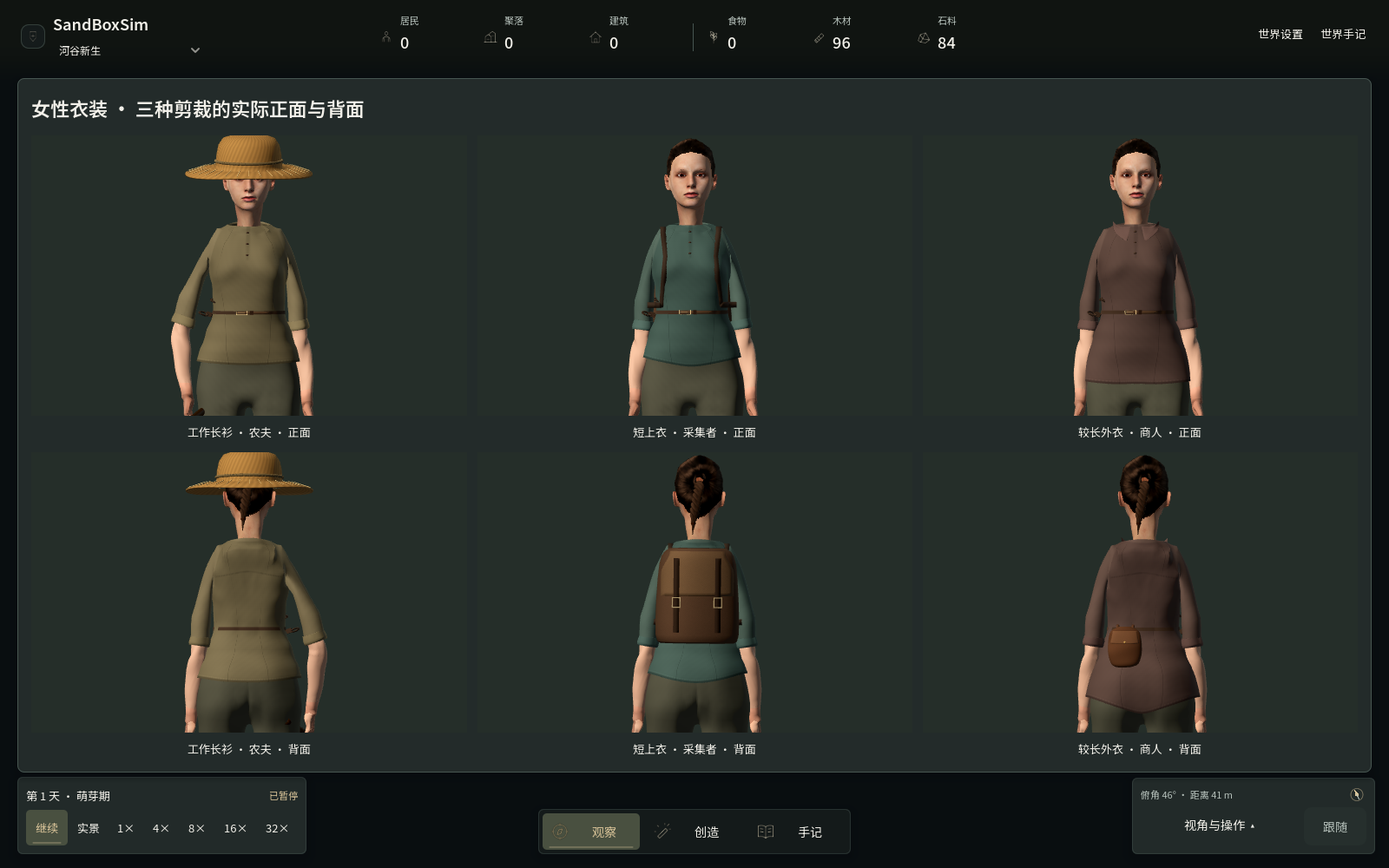
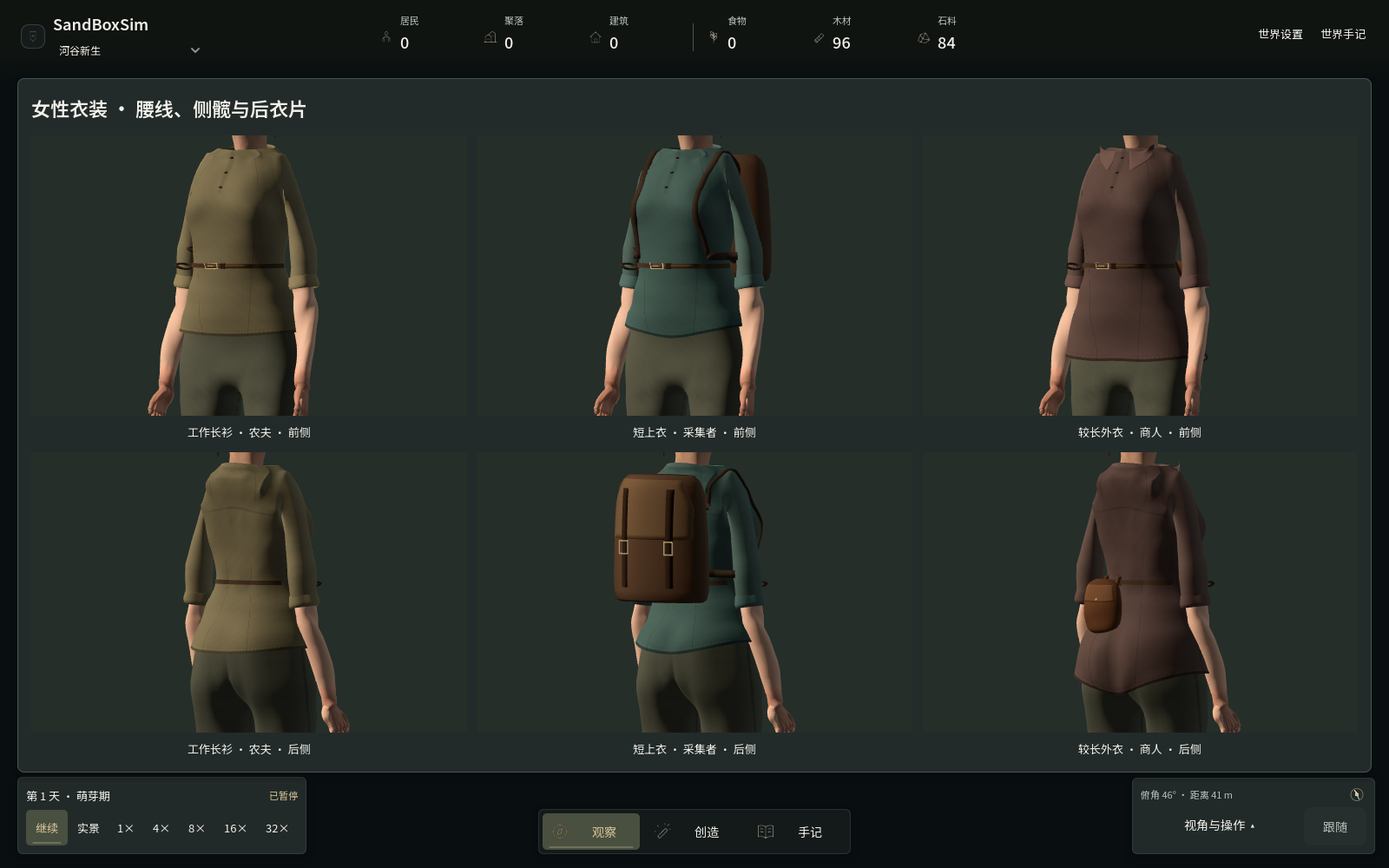
Refit the lower panels and sewn hems of female garments

diff --git a/src/SandBoxSim.Godot/NatureModels.GarmentDrape.cs b/src/SandBoxSim.Godot/NatureModels.GarmentDrape.cs
@@ -1,4 +1,5 @@
 using System;
+using System.Collections.Generic;
 using Godot;
 
 namespace SandBoxSim.Client;
@@ -226,46 +227,97 @@ internal sealed partial class NatureModels
         }
     }
 
+    private float FemaleOuterLayer(float cloth,float height,float angle,float front,out float trousers)
+    {
+        // Continue the waistband's last supported ring into the waist.
+        // Slow the front sample smoothly before it reaches the end.
+        float band=Math.Clamp((height-.924f)/.022f,0,1);
+        float tapered=MathF.Min(height,.924f)+.022f*band*(1-.5f*band);
+        float station=Mathf.Lerp(MathF.Min(height,.935f),tapered,TorsoRamp(.50f,.93f,front));
+        trousers=TrouserLayerRadius(station,angle);
+        return Mathf.Lerp(BlendOuterLayer(cloth,trousers),cloth,TorsoRamp(.928f,.990f,height));
+    }
+
+    private float FairFemalePanelFall(float[] support,float radius,float trousers,float height,float angle,float front)
+    {
+        float hem=FinishedGarmentHem+FemaleHemOffset(MathF.Sin(angle));
+        float active=TorsoRamp(hem-.006f,hem+.033f,height)*(1-TorsoRamp(.914f,.967f,height));
+        if(active==0)return radius;
+        // A hanging panel bridges small changes in the cross-section
+        // underneath it. Use two supports on each side along the grain, with
+        // the real trouser envelope as the lower bound at this station.
+        float Supported(float y)
+        {
+            float cloth=ClothEnvelope(support,MathF.Max(TrunkLow,y),angle)
+                +.003f*front*(1-Mathf.SmoothStep(.80f,.94f,y))+GarmentDrapeDetail(y,angle);
+            return FemaleOuterLayer(cloth,y,angle,front,out _);
+        }
+        float fall=(Supported(height-.032f)+4*Supported(height-.016f)+6*radius
+            +4*Supported(height+.016f)+Supported(height+.032f))/16;
+        float clearance=MathF.Min(radius,trousers-.0015f);
+        return MathF.Max(clearance,radius+Math.Clamp(fall-radius,-.005f,.004f)*active);
+    }
+
     private float FemaleLowerPanelEase(float height,float angle)
     {
         float depth=MathF.Sin(angle),side=MathF.Abs(MathF.Cos(angle));
         float belt=FinishedBeltHeight(angle),hem=FinishedGarmentHem+FemaleHemOffset(depth);
         float t=Math.Clamp((belt-height)/(belt-hem),0,1);
-        float release=TorsoRamp(.08f,.91f,t);
+        float release=TorsoRamp(.13f,.84f,t);
         float outseam=side*side*side;
         float frontQuarter=TorsoRamp(.12f,.48f,-depth)*(1-TorsoRamp(.71f,.97f,-depth));
         float backQuarter=TorsoRamp(.16f,.56f,depth)*(1-TorsoRamp(.83f,1,depth));
         float towardWaist=TorsoRamp(.887f,.923f,height);
-        float waistAllowance=(1-Mathf.SmoothStep(.80f,.935f,height))*(_garmentCut switch
+        float fall=_garmentCut switch
         {
-            0=>.005f*side*side,
-            1=>0,
-            _=>.004f+.010f*side*side
-        });
-        // Release the linen in the direction it hangs from the belt.
-        // Travel cloth keeps more room behind the hip than at centre front.
-        float hemAllowance=release*(_garmentCut switch
-        {
-            0=>.0013f+.0048f*outseam+.0023f*frontQuarter,
-            1=>.0011f+.0024f*outseam+.0015f*frontQuarter,
-            _=>.0028f+.0067f*outseam+.0058f*backQuarter+.0020f*frontQuarter
-        });
-        return Mathf.Lerp(hemAllowance,waistAllowance,towardWaist);
+            0=>.0012f+.0024f*outseam+.0019f*frontQuarter+.0022f*backQuarter,
+            1=>.0014f+.0061f*outseam+.0008f*frontQuarter+.0045f*backQuarter,
+            _=>.0028f+.0056f*outseam+.0013f*frontQuarter+.0085f*backQuarter
+        };
+        // Release the two folds from the back of the belt. Their crests
+        // diverge toward the hip and fade before the turned lower edge.
+        float rear=TorsoRamp(.56f,.88f,depth);
+        float separation=Mathf.Lerp(.14f,.31f,release);
+        float shape=(side-separation)/(_garmentCut==2?.16f:.20f);
+        float fold=(_garmentCut switch {0=>.0022f,1=>.0068f,_=>.015f})
+            *MathF.Exp(-shape*shape)*rear*TorsoRamp(.24f,.68f,t)*(1-TorsoRamp(.86f,1.02f,t));
+        float waistAllowance=(1-TorsoRamp(.80f,.935f,height))*(_garmentCut==2?.004f+.010f*side*side:0);
+        return Mathf.Lerp(release*fall+fold,waistAllowance,towardWaist);
     }
 
-    private Color[] FemaleHemFinishCoordinates(Vector3[] points,Vector2[] pattern)
+    private static Color[] FemaleHemFinishCoordinates(Vector3[] points,int[] triangles,int[] hem)
     {
-        // Keep the finish in bind space so it travels with the skirt. Alpha
-        // stores a metric, while RGB remains available for the distant dye.
+        // Measure the sewn edge on the finished surface, including the
+        // turned facing. A vertical distance made the line drift around a
+        // curved hem or through a fitted lower panel.
+        const float finishWidth=.024f;
+        var neighbours=new HashSet<int>[points.Length];
+        for(int i=0;i<points.Length;i++)neighbours[i]=new();
+        for(int i=0;i<triangles.Length;i+=3)for(int j=0;j<3;j++)
+        {
+            int a=triangles[i+j],b=triangles[i+(j+1)%3];
+            neighbours[a].Add(b);neighbours[b].Add(a);
+        }
+        var distances=new float[points.Length];Array.Fill(distances,finishWidth);
+        var pending=new PriorityQueue<int,float>();
+        for(int col=0;col<SewnPanelColumns;col++)
+        {
+            int rim=hem[col];
+            distances[rim]=0;pending.Enqueue(rim,0);
+        }
+        while(pending.TryDequeue(out int point,out float distance))
+        {
+            if(distance>distances[point])continue;
+            foreach(int next in neighbours[point])
+            {
+                float candidate=distance+points[point].DistanceTo(points[next]);
+                if(candidate>=distances[next])continue;
+                distances[next]=candidate;pending.Enqueue(next,candidate);
+            }
+        }
         var chart=new Color[points.Length];
         for(int i=0;i<points.Length;i++)
-        {
-            var p=points[i];
-            float depth=p.Z/MathF.Max(.001f,new Vector2(p.X,p.Z).Length());
-            float hem=FinishedGarmentHem+FemaleHemOffset(depth);
-            float fromEdge=pattern[i].X<0?Math.Clamp((p.Y-hem)/.024f,0,1):1;
-            chart[i]=new(1,1,1,fromEdge);
-        }
+            chart[i]=new(1,1,1,distances[i]/finishWidth);
         return chart;
     }
 

diff --git a/src/SandBoxSim.Godot/NatureModels.BodyFrame.cs b/src/SandBoxSim.Godot/NatureModels.BodyFrame.cs
@@ -120,18 +120,9 @@ internal sealed partial class NatureModels
             // outside the unclothed source. This includes a coat's lower skirt.
             if(feminine&&panelHeight<.990f)
             {
-                // The top of the trousers ends below the natural waist.
-                // Continue the last fitted contour under the shirt across
-                // the lumbar and upper-hip transition. A narrow falloff at
-                // the waistband made the rear panel hinge at one height.
-                // At the front, taper the sampling rate to zero before
-                // holding the last supported ring so its tangent stays soft.
-                float band=Math.Clamp((panelHeight-.924f)/.022f,0,1);
-                float taperedHeight=MathF.Min(panelHeight,.924f)+.022f*band*(1-.5f*band);
-                float layerHeight=Mathf.Lerp(MathF.Min(panelHeight,.935f),taperedHeight,TorsoRamp(.50f,.93f,front));
-                float trousers=TrouserLayerRadius(layerHeight,angle);
-                target=Mathf.Lerp(BlendOuterLayer(target,trousers),target,TorsoRamp(.928f,.990f,panelHeight));
-                if(tailored)target+=FemaleLowerPanelEase(panelHeight,angle);
+                target=FemaleOuterLayer(target,panelHeight,angle,front,out float trousers);
+                if(tailored)
+                    target=FairFemalePanelFall(support,target,trousers,panelHeight,angle,front)+FemaleLowerPanelEase(panelHeight,angle);
             }
             else if(panelHeight<.94f)
             {
@@ -256,12 +247,16 @@ internal sealed partial class NatureModels
             }
             var bones=arrays[(int)Mesh.ArrayType.Bones].VariantType==Variant.Type.Nil?Array.Empty<int>():arrays[(int)Mesh.ArrayType.Bones].AsInt32Array();
             var weights=arrays[(int)Mesh.ArrayType.Weights].VariantType==Variant.Type.Nil?Array.Empty<float>():arrays[(int)Mesh.ArrayType.Weights].AsFloat32Array();
+            int[]? femaleHem=null;
             var sleeveDistance=bones.Length==points.Length*4&&pattern.Length==points.Length
                 ?SleeveDistances(points,arrays[(int)Mesh.ArrayType.Index].AsInt32Array(),pattern):Array.Empty<float>();
             if(tailored&&sleeveDistance.Length==points.Length)
             {
                 if(s==0&&BodyFrame==1)
-                    FitFemaleHemFacing(points,FindFemaleHem(arrays[(int)Mesh.ArrayType.Vertex].AsVector3Array()));
+                {
+                    femaleHem=FindFemaleHem(arrays[(int)Mesh.ArrayType.Vertex].AsVector3Array());
+                    FitFemaleHemFacing(points,femaleHem);
+                }
                 FitUpperArmSupport(points,pattern,sleeveDistance);
                 FitShoulderSurface(points,arrays[(int)Mesh.ArrayType.Index].AsInt32Array(),pattern,sleeveDistance);
                 FairGarmentRest(points,arrays[(int)Mesh.ArrayType.Index].AsInt32Array(),pattern,source.SurfaceGetMaterial(s)?.HasMeta("FittedBodice")==true);
@@ -369,10 +364,10 @@ internal sealed partial class NatureModels
                     float amount=weights[i*4]*lower;weights[i*4]-=amount;bones[i*4+3]=3;weights[i*4+3]=amount;
                 }
             if(bones.Length>0){arrays[(int)Mesh.ArrayType.Bones]=bones;arrays[(int)Mesh.ArrayType.Weights]=weights;}
-            if(tailored&&s==0&&source.SurfaceGetMaterial(s)?.HasMeta("FittedBodice")==true)
+            if(femaleHem!=null&&source.SurfaceGetMaterial(s)?.HasMeta("FittedBodice")==true)
             {
                 FoldFemaleNeckline(arrays,ref points,ref pattern);
-                arrays[(int)Mesh.ArrayType.Color]=FemaleHemFinishCoordinates(points,pattern);
+                arrays[(int)Mesh.ArrayType.Color]=FemaleHemFinishCoordinates(points,arrays[(int)Mesh.ArrayType.Index].AsInt32Array(),femaleHem);
             }
             // Pattern coordinates are a surface parameter, not a spatial Y
             // function. Rebuild the sewn panel normals from final triangles;

diff --git a/src/SandBoxSim.Godot/WorldView3D.cs b/src/SandBoxSim.Godot/WorldView3D.cs
@@ -461,7 +461,7 @@ public partial class WorldView3D : MapView
             ["landscapeSurface"]="wet-bank-mosaic-v7",["sceneryContact"]="solid-scenery-corridors-v3",["habitatDetail"]="responsive-understory-v12",["vegetationSurface"]="engine-faced-v2",
             ["architecture"]="inset-joinery-v13",["garmentMaterial"]="quiet-linen-v18",["trouserSkin"]="guided-knee-v1",["upperArmFlex"]="stable-contour-v3",["shoulderSkin"]="reference-figure-v25",["shoulderMotion"]="source-clavicle-v11",["motionReference"]="cmu-143-30-v1",["shoulderSurface"]="authored-bind-surface-v3",["forearmSkin"]="continuous-elbow-v9",["sleeveFairing"]="rest-detail-v2",["workPose"]="raised-hammer-v1",["reachMotion"]="palm-trajectory-v2",["interface"]="resident-framing-memory-v28",["wildFlora"]="arched-bramble-v1",["fontProfile"]="noto-packaged-v1",["interfaceVisible"]=Game.InterfaceVisible,
             ["animalPresentation"]="articulated-paws-v12",["animalLocomotion"]="ground-distance-v1",["residentSurface"]="linear-skin-v9",["workEffort"]="overlapping-weight-transfer-v7",["toolMotion"]="socket-relative-stow-v5",["bodySupport"]="planted-spatial-v3",["facialTiming"]="rested-phrase-blink-v2",["handSurface"]="anatomical-regions-v1",["handlingMotion"]="shared-parcel-v12",["toolGeometry"]="forged-heads-v2",["cargoGeometry"]="bound-timber-v2",["equipmentAttachment"]="surface-holster-v2",["socialMotion"]="captured-conversation-v10",["waterSurface"]="shore-activity-v7",["wristContour"]="continuous-source-v2",
-            ["hairline"]="framed-source-root-v2",["femaleGroom"]="scalp-guided-plait-v1",["garmentFit"]="continuous-drape-v35",["reedPanicle"]="connected-axis-v1",["bodyPresentation"]="continuous-drape-v29",["bodyFrame"]="reference-contour-physique-v31",["femaleBodyBuild"]="regional-builds-v1",["femaleRearShoulder"]="diffused-yoke-v2",["neckContour"]="relaxed-neckline-v7",["faceContour"]="balanced-adult-v3",["forearmProfile"]="curvature-flow-v9",["residentLocomotion"]="captured-boot-rockers-v9",["gaitReference"]=ResidentGaitCapture.Version,["actionReference"]=ResidentActionCapture.Version,["armSwing"]="captured-spatial-swing-v8",["motionStyle"]="captured-standing-and-stride-v7",["limbCoordination"]="hinge-carry-v4" };
+            ["hairline"]="framed-source-root-v2",["femaleGroom"]="scalp-guided-plait-v1",["garmentFit"]="continuous-drape-v35",["reedPanicle"]="connected-axis-v1",["bodyPresentation"]="continuous-drape-v29",["bodyFrame"]="reference-contour-physique-v31",["femaleBodyBuild"]="regional-builds-v1",["femaleRearShoulder"]="diffused-yoke-v2",["femaleLowerPanel"]="supported-fall-v1",["neckContour"]="relaxed-neckline-v7",["faceContour"]="balanced-adult-v3",["forearmProfile"]="curvature-flow-v9",["residentLocomotion"]="captured-boot-rockers-v9",["gaitReference"]=ResidentGaitCapture.Version,["actionReference"]=ResidentActionCapture.Version,["armSwing"]="captured-spatial-swing-v8",["motionStyle"]="captured-standing-and-stride-v7",["limbCoordination"]="hinge-carry-v4" };
         quality["taskReference"]=ResidentActionCapture.TaskVersion;
         quality["toolContacts"]="furrow-edge-and-work-stance-v1";
         if(galleries is {Length:>0})quality["galleries"]=galleries;

diff --git a/src/SandBoxSim.Godot/ModelGallery.cs b/src/SandBoxSim.Godot/ModelGallery.cs
@@ -34,7 +34,7 @@ internal partial class ModelGallery : PanelContainer
         body.AddChild(HudStyle.Heading(Collection=="hands" ? "手掌与握柄 · 实际指节与接触" : Collection is "actions" or "motion" or "grip" ? "居民动作 · 取出、握持、使用与收回" : Collection=="equipment" ? "配件与衣装 · 实际挂点与姿态" : Collection=="architecture" ? "木作与砌筑 · 实际建筑模型" : Collection is "characters" or "faces" ? Collection=="faces" ? "面部与衣领 · 实际人物模型" : "人物与动物 · 实际角色模型" : "地表与植被 · 实际场景模型",22));
         var grid=new GridContainer { Columns=3,SizeFlagsVertical=SizeFlags.ExpandFill };
         if(Collection=="model-details")body.GetChild<Label>(0).Text="造型与材质近景 · 世界实际网格";
-        if(Collection is "wardrobe" or "female-wardrobe")body.GetChild<Label>(0).Text=Collection=="female-wardrobe"?"女性衣装 · 三种剪裁的实际正面与背面":"衣装剪裁 · 实际职业模型的正面与背面";
+        if(Collection is "wardrobe" or "female-wardrobe")body.GetChild<Label>(0).Text=Collection=="female-wardrobe"?"女性衣装 · 腰线、侧髋与后衣片":"衣装剪裁 · 实际职业模型的正面与背面";
         grid.AddThemeConstantOverride("h_separation",12); grid.AddThemeConstantOverride("v_separation",12); body.AddChild(grid);
         var models=new NatureModels();
         if(Collection=="wrist-motion")BuildWristStudy(models,grid,body.GetChild<Label>(0));
@@ -163,8 +163,20 @@ internal partial class ModelGallery : PanelContainer
         {
             var jobs=new[]{JobType.Farmer,JobType.Gatherer,JobType.Trader};
             var names=new[]{"工作长衫 · 农夫","短上衣 · 采集者","较长外衣 · 商人"};
+            bool female=Collection=="female-wardrobe";
             for(int row=0;row<2;row++)for(int i=0;i<3;i++)
-                Closeup(grid,names[i]+(row==0?" · 正面":" · 背面"),models.Resident(Collection=="female-wardrobe"?55:17,false,jobs[i]),.88f,new(0,1.13f,0),new(.10f,.035f,3),row==0);
+            {
+                var rig=models.Resident(female?55:17,false,jobs[i]);
+                if(female)
+                {
+                    rig.DefaultTool=ResidentTool.None;
+                    rig.SelectTool(ResidentTool.None);
+                }
+                var direction=female?new Vector3(row==0?1.7f:2.3f,.12f,3):new Vector3(.10f,.035f,3);
+                Closeup(grid,names[i]+(female?(row==0?" · 前侧":" · 后侧"):(row==0?" · 正面":" · 背面")),rig,
+                    female?.66f:.88f,new(0,female?.99f:1.13f,0),direction,row==0);
+                if(female)_studioFloors[^1].Visible=false;
+            }
         }
         else if(Collection=="animal-heads")
         {

diff --git a/src/SandBoxSim.Godot/NatureModels.BodyBendValidation.cs b/src/SandBoxSim.Godot/NatureModels.BodyBendValidation.cs
@@ -243,7 +243,7 @@ internal sealed partial class NatureModels
         for(int i=0;i<points.Length;i++)if(colours[i].A<.999f)
         {
             distances[points[i]]=colours[i].A;
-            if(colours[i].A<.08f)edge++;
+            if(colours[i].A==0)edge++;
         }
         int shared=0;
         for(int i=0;i<farPoints.Length;i++)if(chart[i].X>.5f&&chart[i].Y<.999f)
@@ -254,7 +254,7 @@ internal sealed partial class NatureModels
         }
         if(edge<SewnPanelColumns||shared<distances.Count)
             throw new InvalidOperationException($"Hem finish does not cover the sewn edge: {edge} edge vertices, {shared}/{distances.Count} shared positions");
-        GD.Print($"FEMALE_HEM_FINISH_PASS: {edge} edge vertices and {shared} matching distant coordinates");
+        GD.Print($"FEMALE_HEM_FINISH_PASS: {edge} exact rim anchors and {shared} matching distant surface-distance coordinates");
     }
 
     private static (float Left,float Right,float Front,float Back) HemExtents(Vector3[] points)

diff --git a/src/SandBoxSim.Godot/NatureModels.FigureFabric.cs b/src/SandBoxSim.Godot/NatureModels.FigureFabric.cs
@@ -10,10 +10,11 @@ internal sealed partial class NatureModels
     private const string FigureFabricFunctions=@"float figure_hem_finish(float hem_metric,float angle){
 float metres=hem_metric*.024;
 float aa=max(.0002,fwidth(metres));
-float facing=1.0-smoothstep(.006-aa,.009+aa,metres);
-float thread=1.0-smoothstep(.00055,.0011+aa,abs(metres-.008));
+float facing=1.0-smoothstep(.007-aa,.010+aa,metres);
+float fold_edge=1.0-smoothstep(.0007,.0015+aa,abs(metres-.0035));
+float thread=1.0-smoothstep(.00055,.0012+aa,abs(metres-.0085));
 float stitches=mix(.68,.68+.32*cos(angle*96.0),1.0-smoothstep(.01,.04,fwidth(angle)));
-return 1.0-.14*facing+.11*thread*stitches;
+return 1.0-.13*facing-.05*fold_edge+.14*thread*stitches;
 }
 vec3 figure_colour(vec3 dye,vec2 chart,bool enabled,float torso_weight){
 if(!enabled)return dye;

diff --git a/docs/development/models.md b/docs/development/models.md
@@ -213,17 +213,19 @@
 
 女性折领按体型与款式分别缓存。前领开口向颈部收拢，两侧略放宽，后领放低，锁骨到肩头的鞍形过渡同时用于静止支撑面和抬臂修正。衣摆与裤腰之间使用平滑的外层包络，取裤腰顶部附近的有效截面向上渐隐，降低两层支撑交接处的硬折。[Blender Studio 衣装姿态设计](https://studio.blender.org/training/realistic-human-research/clothing-shapes/) · [TailorNet 的形体与服装版型研究](https://openaccess.thecvf.com/content_CVPR_2020/html/Patel_TailorNet_Predicting_Clothing_in_3D_as_a_Function_of_Human_CVPR_2020_paper.html)
 
-女性三款成衣的下摆使用成品外层截面拟合。拟合时剔除内侧翻边三角面，沿最低实测外层截面的切向补足采样边界。翻边的两圈顶点随后从外层下缘和上一排重新定位，分别向内收 2.4 与 3.2 毫米。近景网格重算法线，远景从同一静止衣面生成。裤装与下摆的重叠在拾取、工作和步行姿态下通过蒙皮后的表面检查。
+女性三款成衣的下摆使用成品外层截面拟合。拟合时剔除内侧翻边三角面，沿最低实测外层截面的切向补足采样边界。翻边的两圈顶点随后从外层下缘和上一排重新定位，分别向内收 2.8 与 3.9 毫米。近景网格重算法线，远景从同一静止衣面生成。裤装与下摆的重叠在拾取、工作和步行姿态下通过蒙皮后的表面检查。
 
-三款女性成衣各自使用下摆高度曲线。工作衫沿侧腰放出少量活动余量，下缘接近平直。采集短衣在侧髋抬高，前后保留弧线。商人外套由腰向下逐渐展开，后片比前片更长。余量从已覆盖裤装的外层衣面向外加，接近腰带前逐渐归零。三款染色分别向亚麻褐、灰绿和暖赭调整，混合居民原有颜色。正背面可直接比较同一居民换装后的效果。[女性成衣图册](../images/resident-female-wardrobe.png) · [Colonial Williamsburg 工作短衣藏品](https://emuseum.colonialwilliamsburg.org/objects/7862/jacket) · [腰下展开版型藏品](https://emuseum.colonialwilliamsburg.org/objects/503/jacket)
+三款女性成衣各自使用下摆高度曲线。工作衫收顺侧边，下缘接近平直。采集短衣在抬高的侧髋留出活动余量，前后保留弧线。商人外套的后片更长，腰带以下的两道褶逐渐分开，在翻边前回收。形体先沿布料纵向跨过短距离的截面起伏，再叠加各剪裁的松量，并依据实际裤装包络限制内收。三款染色分别偏亚麻褐、灰绿和暖赭。 [工作短衣藏品](https://emuseum.colonialwilliamsburg.org/objects/7862/jacket) · [后片褶裥藏品](https://emuseum.colonialwilliamsburg.org/objects/503/jacket) · [服装分区松量研究](https://theses.lib.polyu.edu.hk/handle/200/2765)
 
-三款女性衣装的腰下褶线从腰带往髋侧逐渐张开，短衣和长外套分别留出不同的衣量。采集者与猎人的背包贴合实际后衣片，双肩带沿衣面穿过肩部，并绕回背包的上下挂点。商人的薄皮袋用两条翻折挂袢固定在左后腰。`FEMALE_CARRY_GEAR_PASS` 检查背带挂点和蒙皮，以及走路、拾取、交易、交谈和进食时手臂中线相对皮袋包围盒的净空。[工作短衣藏品](https://emuseum.colonialwilliamsburg.org/objects/7862/jacket) · [皮袋与皮质挂点藏品](https://postalmuseum.si.edu/object/npm_2004.2004.17)
+下摆的外缘、内折和针脚共用成品网格上的沿面距离。材质从实际缝边定位针脚，近景和远景都使用相同的布面坐标。
+
+采集者与猎人的背包贴合实际后衣片，双肩带沿衣面穿过肩部，并绕回背包的上下挂点。商人的薄皮袋用两条翻折挂袢固定在左后腰。`FEMALE_CARRY_GEAR_PASS` 检查背带挂点和蒙皮，以及走路、拾取、交易、交谈和进食时手臂中线相对皮袋包围盒的净空。 [皮袋与皮质挂点藏品](https://postalmuseum.si.edu/object/npm_2004.2004.17)
 
 女性裤装沿高度每隔 10 毫米读取实际截面。大腿外侧、内缝、膝前和膝后各自分配衣量，前裆到内缝的转折下放最多 8 毫米，靴内的裤脚与髋关节支撑继续使用对应的成品网格。裤缝以到截面中线的有符号距离定位，内外缝跟随实际腿型，针脚细节随距离平滑过渡。静止造型与弯身、行走使用同一网格，髋、膝各自响应姿态。`FEMALE_TROUSER_DRAPE_PASS` 检查成品膝前与膝侧余量、大腿横向余量、前裆曲面和固定裤脚。[女裤三维合体研究](https://journals.sagepub.com/doi/10.1177/0887302X07309479) · [站姿与坐姿下身截面研究](https://pmc.ncbi.nlm.nih.gov/articles/PMC8464815/)
 
 女性后领与上背之间采用局部深度修形。肩袖拟合完成后，后片超出目标弧面的部分逐渐向内收，修形在领口和袖窿前退出。几何法线从成品网格重建，近远景使用相同的静止轮廓。后育克的弧形针脚由衣面的静止坐标驱动，随肩背弯曲。三款衣装的实际成品在背中线及左右 25 毫米的截面上检查后领下方的外突量。造型参考肩颈与肩胛之间的宽缓连接，以及服装在肩部活动时的拉伸与压缩。[肩颈表面结构](https://elsevier-elibrary.com/contents/fullcontent/58090/epubcontent_v2/OEBPS/B9780443069529000126A.htm) · [Blender Studio 衣装形体](https://studio.blender.org/training/realistic-human-research/clothing-shapes/)
 
-[女性三款衣装实机配图](../images/resident-female-wardrobe.png)展示相同身份的正面与背面。女性三款衣装可通过 [公开衣装场景](../../benchmarks/scenarios/visual-female-wardrobe.json) 复现，同镜头比较正面与背面，完整身体仍看 `visual-body-frames`／`visual-body-motion`。结构调研参考 [Proko 的前胸形体常见错误](https://www.proko.com/course-lesson/common-mistakes-of-drawing-breasts)和 [Blender Studio 角色制作流程](https://studio.blender.org/training/realistic-human-research/)；当前是穿衣曲面与有限姿态修正，不是新的裸身扫描或软组织仿真。
+女性成衣图册用前侧和后侧近景展示同一居民的三套衣装。预览收起手持工具，保留腰带、背包和腰包，便于观察腰线、侧髋和翻边。完整身体可在 `visual-body-frames`／`visual-body-motion` 中观察。 [实机配图](../images/resident-female-wardrobe.png) · [公开衣装场景](../../benchmarks/scenarios/visual-female-wardrobe.json)
 
 腰侧和骨盆的结构还参考 [Proko 腰侧形体](https://www.proko.com/course-lesson/how-to-draw-obliques-form)与[骨盆结构](https://www.proko.com/course-lesson/anatomy-of-the-pelvis)：区分骨性边界和柔和表面，先检查正侧背面的连续体积。角色采用自然匀称的美术方向，不用固定腰臀比或局部尺寸定义吸引力。
 

diff --git a/docs/development/benchmark.md b/docs/development/benchmark.md
@@ -292,7 +292,7 @@ Godot 自检包含协议拒绝测试、模型/握持几何和 UI 状态；Python
 
 `reference-contour-physique-v31` 重建十份共同来源支撑，`continuous-drape-v29`／`continuous-drape-v31`／`reference-figure-v25` 标识新的成品形体与衣料跨度、染色和肩袖缓存。肩、手、骨架和 HTTP 协议保持各自合同；视觉输入、冷启动构建及缓存会改变，效率对照必须重新冻结源码、资产、动作、人数、LOD 与采样条件。体型宽深、衣料接续和来源 Jacobian 的回归结果只用于确认输入有效，不作为 RSI 或吸引力评分。
 
-`visual-female-wardrobe.json`／`female-wardrobe` 为成人女性三种实际职业剪裁的六区域静态入口，上排正面、下排背面；不替换原男性 `wardrobe` 场景。当前的中线来源场、上胸／共享袖根整理、姿态末端拟合及领口映射改变像素和缓存构建；比较效率时须重新冻结源码、资产、动作与镜头。几何回归只用于实验输入有效性，不证明吸引力或 RSI 能力。
+`femaleLowerPanel=supported-fall-v1` 标识三款女性衣装的腰下曲面、后褶和沿布面测得的下摆翻边距离。`visual-female-wardrobe` 以 0.66 米正交尺度从前侧和后侧观察同一居民的三套成衣。图册收起手持工具，以便比较衣片轮廓。镜头、衣料曲面和缝线参数会改变像素及构建成本，跨版本对照需使用相同的标识与参数。
 
 `reference-contour-physique-v31`／`continuous-drape-v29`／`continuous-drape-v31`／`reference-figure-v25` 同时区分腰侧、小腹、后腰／臀腿轮廓、较低的前胸重分配和女性衣摆／裤装染色。来源 Jacobian 与位移预算不变；原生身材、上肢和微动作测试仍分别执行。这些是视觉输入身份及几何约束，不是 RSI 或审美评分；性能实验需要重新冻结当前完整输入。
 

diff --git a/docs/images/README.md b/docs/images/README.md
@@ -38,7 +38,7 @@
 | 女性个人身形 | `visual-female-builds` 第 90 帧。同一居民、同一身高和衣装的三种腰髋轮廓，正面和侧面采用相同的正交尺度 | [女性身形对照](resident-female-builds.png) |
 | 女性肩背与袖根 | `visual-female-shoulders` 第 90 帧。右肩背面和左肩后侧分别对照自然垂臂、抬臂 90° 和 135° | [女性肩背近景](resident-female-shoulders.png) |
 | 成人头脸 | `visual-faces`、`visual-face-frames` 第 90 帧 | [三种头脸](resident-face-detail.png) · [成人外观对照](resident-face-frames.png) |
-| 三种衣装的正背面 | `visual-wardrobe`、`visual-female-wardrobe` 第 90 帧，可对照女性三款衣片的腰下垂坠、侧缝和下摆翻边 | [男性成衣](wardrobe-detail.png) · [女性成衣](resident-female-wardrobe.png) |
+| 三种职业衣装 | `visual-wardrobe`、`visual-female-wardrobe` 第 90 帧。男性图册展示正背面，女性图册从前侧与后侧观察腰下垂坠、侧髋和下摆翻边 | [男性成衣](wardrobe-detail.png) · [女性成衣](resident-female-wardrobe.png) |
 | 手部、前臂和腕部 | `visual-hands`、`visual-forearm-frames` 第 90 帧，`visual-wrist-motion` 第 150 帧可对照手背、掌侧与侧面的近腕轮廓 | [握持](resident-hand-detail.png) · [前臂三视图](resident-forearm-frames.png) · [手掌与腕部近景](resident-wrist-motion.png) |
 | 静立、步行与拾取 | `visual-body-motion` 第 105 帧，可观察弯身时胸廓、骨盆和双膝的配合，以及裤装在屈髋处的变化 | [全身姿势](resident-body-motion.png) |
 | 同速步行、搬运和持锤 | `visual-locomotion` 第 180 帧 | [步态对照](resident-style-walk.png) |

diff --git a/CHANGELOG.md b/CHANGELOG.md
@@ -4,6 +4,7 @@
 
 ## 2026-11-07
 
+- 重塑女性三款上衣的腰下衣片。工作衫下缘收顺，采集短衣在侧髋留量，商人外套增加向后垂落的双褶。翻边与缝线沿成品网格定位，近远景共用。
 - 女性后领到肩胛的蒙皮权重沿衣片平滑分布。手臂越过肩高时，局部衣料逐渐转向，减少后领外侧的尖折。肩背图册改为对照垂臂、90° 和 135°。
 - 女性工作衫、采集短衣和商人外套重整后肩到袖根的曲面。放松垂臂时减少肩胛外侧的尖褶，抬臂时沿同一片衣料圆顺过渡。新增肩背近景图册。
 - 成年女性居民拥有均衡轮廓、较直腰线和圆润髋线三种身形。世界模型与居民详情按同一居民身份选取身形，换职业后仍保留个人轮廓。
